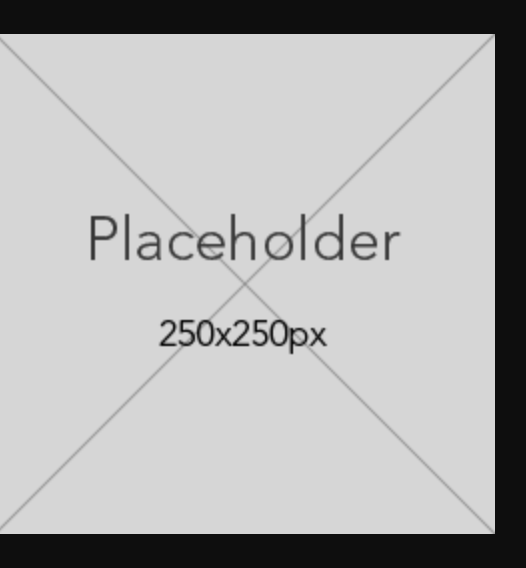
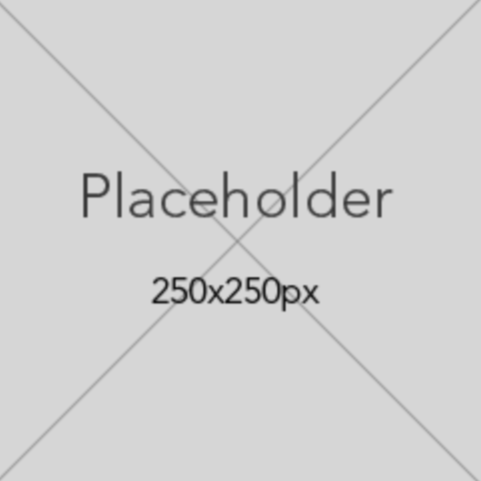
third commit

diff --git a/style.css b/style.css
@@ -21,10 +21,10 @@ body{
   background-repeat: no-repeat;
   object-fit: contain;
   height: 50vh;
-  width: 100%;
+  width: 75%;
   display: flex;
-  align-self: center;
-  margin: 10px;
+  align-items: center;
+  margin: 50px;
 }
 
 #about-me-header, #contact-info{
